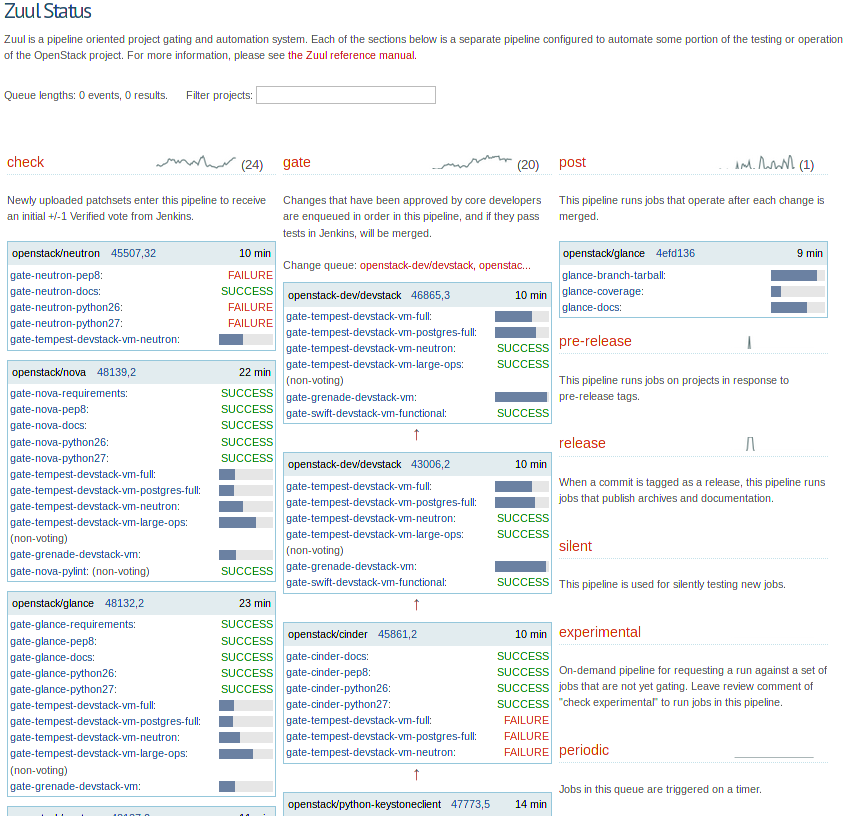
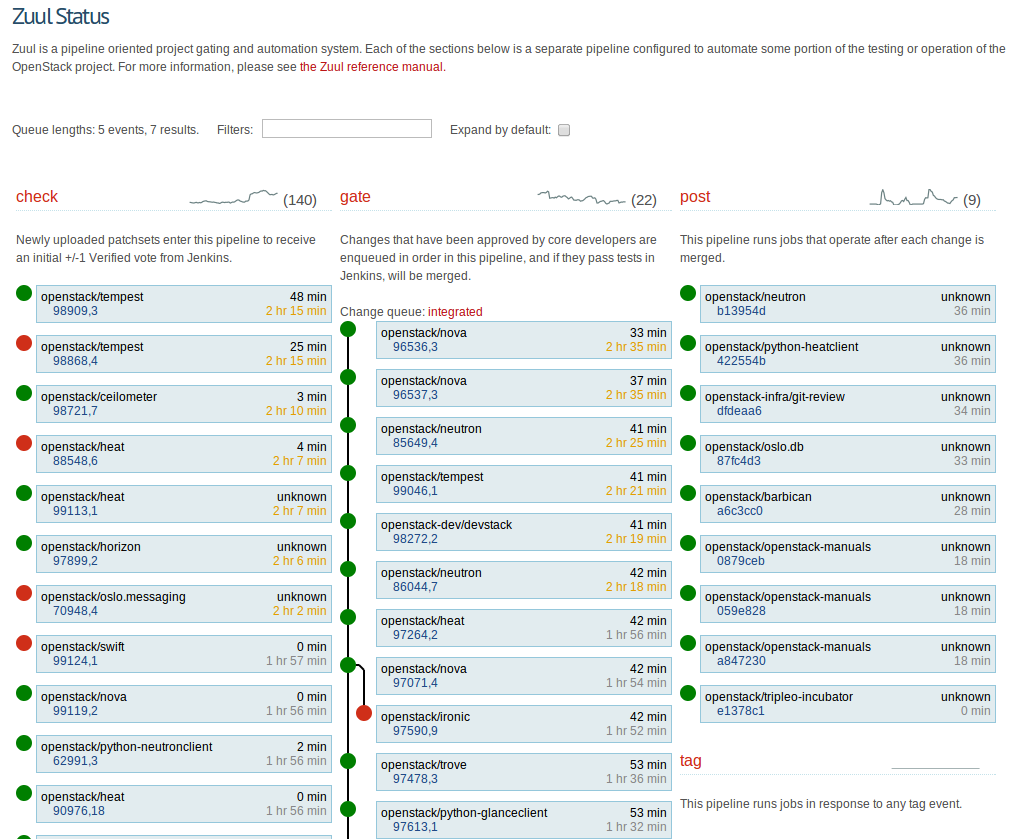
Minor updates, new gerrit and zuul screenshots
Several minor updates on the slides in preparation for upcoming
DORS/CLUC conference, new Zuul status page screenshot and two
new Gerrit screenshots.

diff --git a/index.html b/index.html
@@ -47,6 +47,8 @@ src="graphics/openstack-cloud-software-horizontal-small.png" /></div>
     &lt;<a href="mailto:fungi@yuggoth.org">fungi@yuggoth.org</a>&gt;</div>
   <div class="smaller">Clark Boylan
     &lt;<a href="mailto:cboylan@sapwetik.org">cboylan@sapwetik.org</a>&gt;</div>
+  <div class="smaller">Elizabeth K. Joseph
+    &lt;<a href="mailto:lyz@princessleia.com">lyz@princessleia.com</a>&gt;</div>
 </div>
 
 <div class="slide">
@@ -178,6 +180,7 @@ src="graphics/openstack-cloud-software-horizontal-small.png" /></div>
     </ul></li>
     <li>Test/build automation<ul>
       <li>devstack-gate</li>
+      <li>Nodepool</li>
       <li>Jenkins</li>
       <li>JJB</li>
       <li>Zuul</li>
@@ -241,7 +244,7 @@ src="graphics/openstack-cloud-software-horizontal-small.png" /></div>
     <li>Anyone on the internet can look at our changes</li>
     <li>Anyone can sign up for a code review account</li>
     <li>Anyone can write and propose changes</li>
-    <li>http://git.openstack.org/cgit/openstack-infra/config/tree/</li>
+    <li>https://git.openstack.org/cgit/openstack-infra/config/tree/</li>
   </ul>
 </div>
 
@@ -313,6 +316,7 @@ src="graphics/openstack-cloud-software-horizontal-small.png" /></div>
 <li>Stand-alone patch review system</li>
 <li>Integration points: hooks, JSON queries, event-stream</li>
 <li>Extensible review categories, default: Verified, Code-Review</li>
+<li>REST API</li>
 </ul>
 </div>
 
@@ -399,7 +403,7 @@ To ssh://corvus@review.openstack.org:29418/openstack/neutron.git
 <h1>Gerrit Git Prep</h1>
 <ul>
 <li>Test the result of the change, not the change</li>
-<li>openstack-infra/config:modules/jenkins/files/slave_scripts/gerrit-git-prep.sh</li>
+<li>openstack-infra/config:modules/openstack_project/files/slave_scripts/gerrit-git-prep.sh</li>
 <li>For each gerrit change:
 <ul>
   <li>grabs target branch</li>
@@ -413,7 +417,7 @@ To ssh://corvus@review.openstack.org:29418/openstack/neutron.git
 <div class="slide">
 <h1>Interrelated Integration Testing</h1>
 <ul>
-  <li>devstack-gate<ul>
+  <li>devstack-gate &amp; Nodepool<ul>
     <li>boot fresh servers</li>
     <li>run DevStack</li>
     <li>run integration tests</li>
